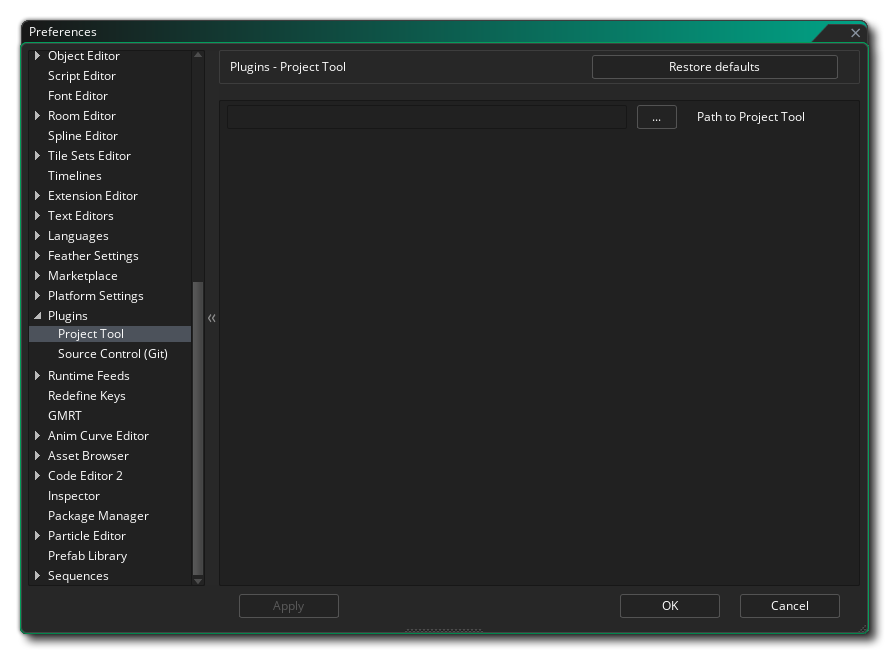
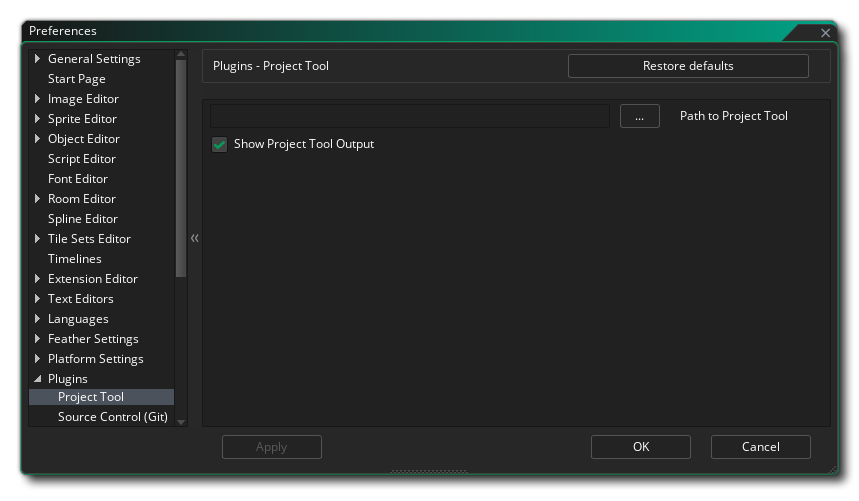
docs(feature): Update preferences (moved Project Tool Output preference into Plugin preferences) https://github.com/YoYoGames/GameMaker-Bugs/issues/9264

Changed region(s): [[0.0, 0.0, 0.9988, 0.988]]

diff --git a/Manual/contents/Setting_Up_And_Version_Information/IDE_Preferences/General_Preferences.htm b/Manual/contents/Setting_Up_And_Version_Information/IDE_Preferences/General_Preferences.htm
@@ -15,7 +15,7 @@
 <body>
   <!--<div class="body-scroll" style="top: 150px;">-->
   <h1>General Preferences</h1>
-  <p><img alt="General Preferences" class="center" height="888" src="../../assets/Images/Setup_And_Version/Preferences/General_Prefs.png" width="846" />The <strong>General Preferences</strong> are used to define the general behaviour of the <span data-keyref="GameMaker Name">GameMaker</span> <a class="tooltip" title=" ">IDE</a>. The most general ones are listed on the main page while many others are split into multiple sub-categories, explained further down this page.</p>
+  <p><img alt="General Preferences" class="center" src="../../assets/Images/Setup_And_Version/Preferences/General_Prefs.png" />The <strong>General Preferences</strong> are used to define the general behaviour of the <span data-keyref="GameMaker Name">GameMaker</span> <a class="tooltip" title=" ">IDE</a>. The most general ones are listed on the main page while many others are split into multiple sub-categories, explained further down this page.</p>
   <ul class="colour">
     <li><strong>IDE Font</strong>: This option permits you to change the font used throughout the IDE. Default is <strong>Open Sans</strong>.</li>
     <li><strong>IDE Fallback Font</strong>: This option allows you to set a fallback font <span>to use when the IDE font has missing characters. This can be useful if you&#39;re on a non-English platform where the font might have localised characters, but may be missing UTF-8 glyphs for them.</span></li>
@@ -27,24 +27,25 @@
     <li><strong>IDE Skin</strong>: Here you can select from the different skins that the IDE can use. By default <span data-keyref="GameMaker Name">GameMaker</span> comes with two skins, one light and one dark, and the initial setup uses the <strong>Dark</strong> skin.</li>
     <li><strong>Default Build Target</strong>: This is the default build <a href="../../Introduction/Compiling.htm">target</a> to use for projects. The default is <strong>GX.games</strong>.</li>
     <li><strong>Automatic Response to The System Font Changed Dialog</strong>: This option permits you to set whether a confirmation message should be shown when a system font has been added, removed or edited. By default this is set to <strong>Show Message</strong>, but can be set to skip the message as if you&#39;d clicked OK.</li>
-    <li><strong>Automatic Response to Exit Confirmation</strong>: This option permits you to set whether a confirmation message should be shown when you exit <span data-keyref="GameMaker Name">GameMaker</span>. By default this is set to <strong>Show Message</strong>, but can be set to skip the message as if you&#39;d clicked OK.</li>
+    <li><strong>Automatic Response to Exit Confirmation</strong>: This option permits you to set whether a confirmation message should be shown when you exit <span data-keyref="GameMaker Name">GameMaker</span>. By default this is set to <strong>Show Message</strong>, but can be set to skip the message as if you&#39;d clicked OK.
+      <hr />
+    </li>
     <li><strong>Enable notifications</strong>: Checking this will enable the IDE to show notifications about new runtimes, etc. This is on by default.</li>
     <li><strong>Notification timeout (ms)</strong>: This sets the length of time (in milliseconds) that a notification is shown for. Default is 6000.</li>
     <li><strong>Sign out on exit</strong>: If this option is checked then the IDE will automatically log out the user session when <span data-keyref="GameMaker Name">GameMaker</span> is closed. This is primarily aimed at Education users, as - when checked - this means that whenever the program shuts down the user would be logged out and so free up the session seat for other users to use. This is off by default.</li>
     <li><strong>Disable IDE transition animations</strong>: The <span data-keyref="GameMaker Name">GameMaker</span> IDE has a number of animated transitions for things like opening windows, etc. However, they are not to everyone&#39;s taste and you may experience a performance boost if they are disabled on older or under-powered machines if they are disabled. You can disable them here, and they are on by default.</li>
-    <li><strong>Allow empty tabs to be closed via the keyboard shortcut</strong>: You can close any open Tabs using the keyboard shortcut <img alt="Icon CTRL" class="icon" height="20" src="../../assets/Images/Icons/Icon_Ctrl.png" width="55" /> / <img alt="Icon CMD" class="icon" height="20" src="../../assets/Images/Icons/Icon_Cmd.png" width="55" /> + <strong>W</strong>, but if you disable this option that shortcut will no longer work. This is enabled by default.</li>
     <li><strong>Open new assets for edit on dragging files into IDE</strong>: Certain assets (like sprites or sounds) can be dragged onto the main Workspace in the <span data-keyref="GameMaker Name">GameMaker</span> IDE and will be detected and added as a new asset in <a data-xref="{title}" href="../../Introduction/The_Asset_Browser.htm">The Asset Browser</a>. By default the corresponding asset editor will also be opened for editing when this happens, but un-checking this option will prevent the editors from being opened and you will be required to open them manually.</li>
     <li><strong>Open new assets for edit on creation</strong>: If this is checked, every time you create a new resource in <a data-xref="{title}" href="../../Introduction/The_Asset_Browser.htm">The Asset Browser</a>, the corresponding asset editor will be opened automatically. This is checked by default and un-checking it will mean that you have to manually open all newly created assets.</li>
     <li><strong>Use US Date Format</strong>: This setting changes the format used to display dates in the IDE. When enabled, dates are displayed as e.g. &quot;Thursday, April 27, 2023&quot;, when disabled, dates are displayed as e.g. &quot;27 April 2023&quot; instead. By default this preference is unchecked.</li>
     <li><strong>Automatically reload changed files</strong>: If this is checked, the IDE will automatically scan and check files to see if any of them have been changed outside of <span data-keyref="GameMaker Name">GameMaker</span> and reload them if they have.</li>
     <li><strong>Case-Insensitive mode for project files (may affect performance)</strong>: Intended to be used to avoid issues with filename case sensitivity on non-Windows devices (macOS and Linux). Such issues can happen when transferring projects from Windows to non-Windows systems, using Git with <a href="https://git-scm.com/docs/git-config#Documentation/git-config.txt-coreignoreCase">ignore case</a> enabled (which you should try disabling first) and/or renaming files only to change the case. This is disabled by default as it&#39;s a performance overhead and should not be required outside of the aforementioned cases.</li>
     <li><strong>Enable Verbose Logging</strong>: This option enables verbose logging of network calls.</li>
-    <li><strong>Show Project Tool Output</strong>: When this option is checked, the <a data-xref="{text}" href="../../IDE_Tools/Project_Tool.htm#project_tool_output">Project Tool Output</a> window will be shown when you convert projects with <a data-xref="{title}" href="../../IDE_Tools/Project_Tool.htm">Project Tool</a>.</li>
     <li><strong>Enable VSync</strong>: This option enables or disables vertical synchronisation within the IDE. VSync is enabled by default, though you can disable it using this setting if you&#39;re experiencing screen flickering with the IDE open. Note that any change to this setting requires a restart of the IDE.</li>
-    <li><strong>Enable DPI Override</strong>: This option lets you override the default DPI setting with your own. You must first enable the option and then set either the <strong>Raw DPi Override</strong> value (the default value is 96) or set the <strong>Percentage of the native DPi</strong> (default value 100%), and once changed you will be prompted to restart the IDE, which may require you to save any work being done on the currently open project. Note that the DPi has a minimum percentage of 50% and a maximum of 500%, and if you you mouse over the information icon you can see the recommended maximum setting for the display being used:<br />
+    <li><strong>Enable DPI Override</strong>: This option lets you override the default DPI setting with your own. You must first enable the option and then set the <strong>Percentage of the native DPI</strong> (default value 100%), and once changed you will be prompted to restart the IDE, which may require you to save any work being done on the currently open project. Note that the DPi has a minimum percentage of 50% and a maximum of 500%, and if you you mouse over the information icon you can see the recommended maximum setting for the display being used:<br />
       <br />
       <img alt="General DPi Override Recommendation" class="center" src="../../assets/Images/Setup_And_Version/Preferences/General_DPi_Override_Recomendation.png" />Note that if you go above the recommended DPi setting for the monitor, you will be shown a notification that permits you to reset the DPI.
     </li>
+    <li><strong>Allow empty tabs to be closed via the keyboard shortcut</strong>: You can close any open Tabs using the keyboard shortcut <img alt="Icon CTRL" class="icon" height="20" src="../../assets/Images/Icons/Icon_Ctrl.png" width="55" /> / <img alt="Icon CMD" class="icon" height="20" src="../../assets/Images/Icons/Icon_Cmd.png" width="55" /> + <strong>W</strong>, but if you disable this option that shortcut will no longer work. This is enabled by default.</li>
   </ul>
   <p>The options above are the main options available from the <strong>General </strong>preferences, but there are a number of extra options available to you in the sub-categories listed below:</p>
   <ul class="colour">

diff --git a/Manual/contents/Setting_Up_And_Version_Information/IDE_Preferences/Plugin_Preferences.htm b/Manual/contents/Setting_Up_And_Version_Information/IDE_Preferences/Plugin_Preferences.htm
@@ -21,7 +21,8 @@
     <p><img alt="Plugins Git SCM Preferences" class="center" src="../../assets/Images/Setup_And_Version/Preferences/Plugins_Project_Tool_Prefs.png" /></p>
     <p>This section contains the preferences related to <a data-xref="{title}" href="../../IDE_Tools/Project_Tool.htm">Project Tool</a>:</p>
     <ul class="colour">
-      <li id="path_to_project_tool"><strong>Path to Project Tool</strong>: Here you can specify an alternative path to Project Tool. This field is empty by default, which indicates that the version bundled with this release of the IDE is used. You should normally not need to change this. See <a data-xref="{text}" href="../../IDE_Tools/Project_Tool.htm#project_tool_versions">Project Tool Versions</a>.</li>
+      <li id="path_to_project_tool"><strong>Path to Project Tool</strong>: Here you can specify an alternative path to Project Tool. This field is empty by default, which indicates that either the version bundled with this release of the IDE or the latest version installed in the <a data-xref="{title}" href="../../IDE_Tools/Package_Manager.htm">Package Manager</a> is used. You should normally not need to change this. See <a data-xref="{text}" href="../../IDE_Tools/Project_Tool.htm#project_tool_versions">Project Tool Versions</a>.</li>
+      <li><strong>Show Project Tool Output</strong>: When this option is checked, the <a data-xref="{text}" href="../../IDE_Tools/Project_Tool.htm#project_tool_output">Project Tool Output</a> window will be shown when you convert projects with Project Tool. This is enabled by default.</li>
     </ul>
   </div>
   <p><a class="dropspot" data-rhwidget="DropSpot" data-target="drop-down1" href="#">Source Control (Git)</a></p>
@@ -54,7 +55,7 @@
         <div style="float:right">Next: <a href="Runtime_Feed_Preferences.htm">Runtime Feed Preferences</a></div>
       </div>
     </div>
-    <h5><span data-keyref="Copyright Notice">© Copyright YoYo Games Ltd. 2024 All Rights Reserved</span></h5>
+    <h5><span data-keyref="Copyright Notice">© Copyright YoYo Games Ltd. 2025 All Rights Reserved</span></h5>
   </div>
   <!-- KEYWORDS
 Preferences - Plugins
